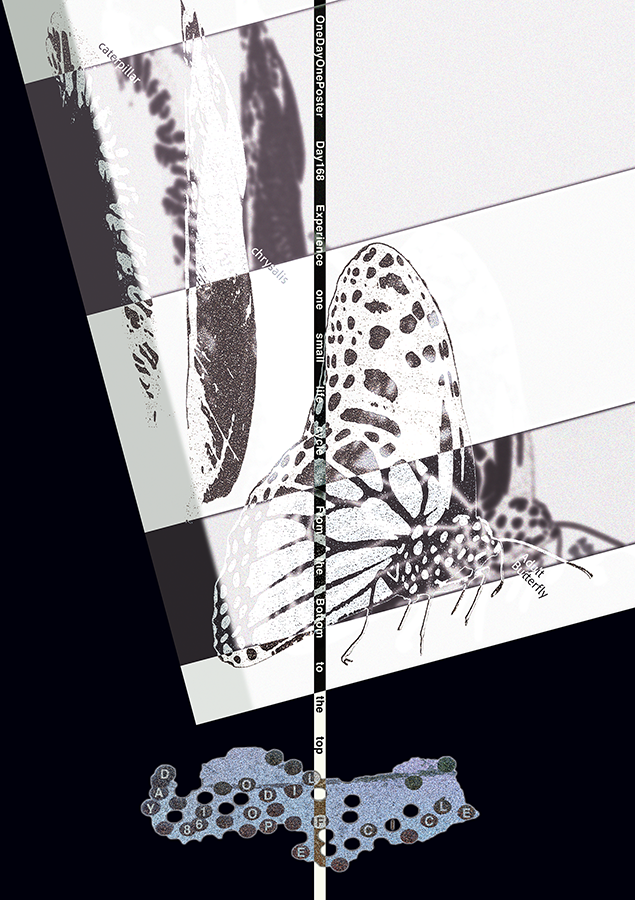
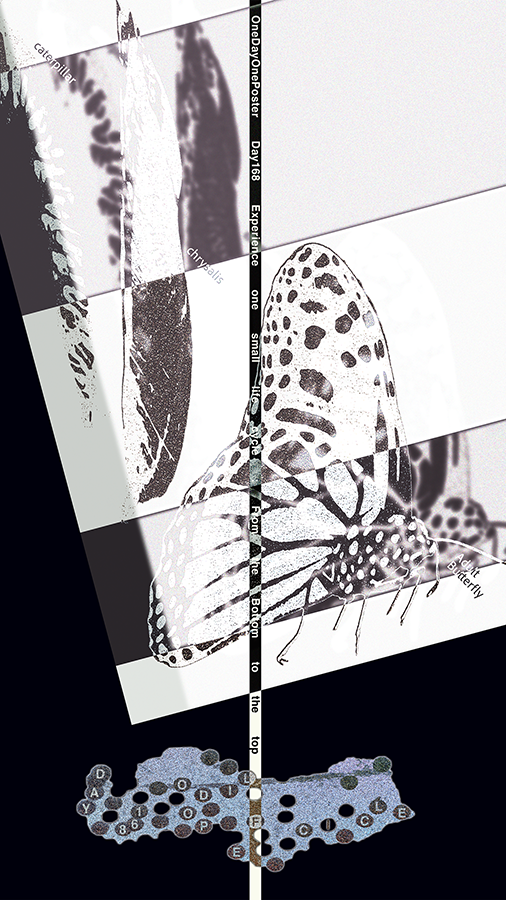
update

diff --git a/src/lib/posters.js b/src/lib/posters.js
@@ -5,7 +5,7 @@ export const startDate = new Date(2025, 7, 15, 12, 0, 0);
 const descMap = {
 };
 
-export const posters = Array.from({ length: 168
+export const posters = Array.from({ length: 169
 
  }).map((_, i) => {
   const no = i + 1;

diff --git a/src/content/odop/169.md b/src/content/odop/169.md
@@ -1,0 +1,11 @@
+---
+day: "169/ D-13"
+subject: 맛있는 칵테일 한잔
+tools:
+  - "Adobe Photoshop"
+  - "Adobe Illustrator"
+fonts:
+  - "정부상징 부처명"
+  - "Dazzle Unicase"
+---
+맛있는 칵테일 한 잔 옆에 두고 영화보고싶네요. 청주에 외출나갔다가, 주차금지가 세번 연속 수평으로 적힌 벽면에 ‘금’ 한글자가 올라가있어서 운율이 느껴졌었는데 그 기억이 재밌어서 오디오피에도 한글자만 올려봤답니다.
